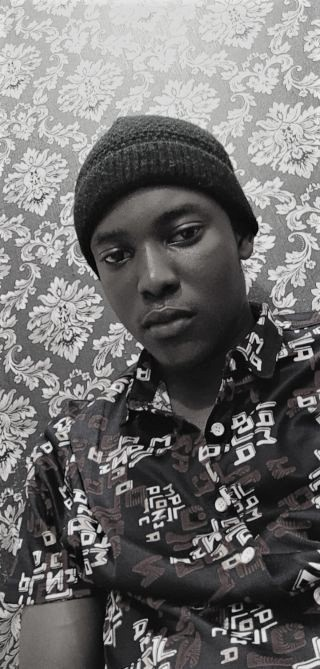
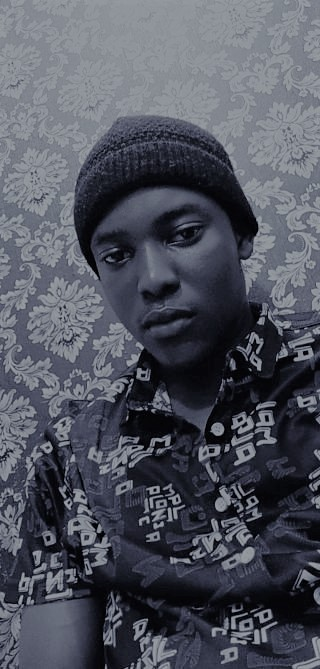
updated

diff --git a/public/output.css b/public/output.css
@@ -659,10 +659,6 @@ video {
   z-index: -1;
 }
 
-.z-\[\]{
-  z-index: ;
-}
-
 .mx-auto{
   margin-left: auto;
   margin-right: auto;
@@ -769,6 +765,22 @@ video {
   height: 100%;
 }
 
+.h-\[\]{
+  height: ;
+}
+
+.h-\[500xp\]{
+  height: 500xp;
+}
+
+.h-\[500px\]{
+  height: 500px;
+}
+
+.h-\[600px\]{
+  height: 600px;
+}
+
 .max-h-\[400px\]{
   max-height: 400px;
 }
@@ -801,16 +813,36 @@ video {
   width: 100%;
 }
 
-.w-\[1005\]{
-  width: 1005;
+.w-\[\]{
+  width: ;
 }
 
-.w-\[100\%\]{
-  width: 100%;
+.w-\[800px\]{
+  width: 800px;
+}
+
+.w-\[400px\]{
+  width: 400px;
+}
+
+.w-\[900px\]{
+  width: 900px;
 }
 
 .max-w-\[400px\]{
   max-width: 400px;
+}
+
+.max-w-\[800px\]{
+  max-width: 800px;
+}
+
+.max-w-\[00px\]{
+  max-width: 00px;
+}
+
+.max-w-\[8000px\]{
+  max-width: 8000px;
 }
 
 .basis-1\/2{
@@ -823,6 +855,18 @@ video {
 
 .basis-3\/5{
   flex-basis: 60%;
+}
+
+.basis-\[\]{
+  flex-basis: ;
+}
+
+.basis-\[20\%\]{
+  flex-basis: 20%;
+}
+
+.basis-\[80\%\]{
+  flex-basis: 80%;
 }
 
 .resize{
@@ -904,6 +948,11 @@ video {
   border-bottom-right-radius: 0.125rem;
 }
 
+.rounded-t-full{
+  border-top-left-radius: 9999px;
+  border-top-right-radius: 9999px;
+}
+
 .bg-\[\#090026\]{
   --tw-bg-opacity: 1;
   background-color: rgb(9 0 38 / var(--tw-bg-opacity));
@@ -946,6 +995,26 @@ video {
 
 .bg-gradient-rainblue{
   background-image: linear-gradient(90deg, #24CBFF 14.53%, #FC59FF 69.36%, #FFBD0C 117.73%);
+}
+
+.object-contain{
+  object-fit: contain;
+}
+
+.object-cover{
+  object-fit: cover;
+}
+
+.object-top{
+  object-position: top;
+}
+
+.object-bottom{
+  object-position: bottom;
+}
+
+.object-right-bottom{
+  object-position: right bottom;
 }
 
 .p-10{
@@ -1126,6 +1195,17 @@ video {
 .outline-none{
   outline: 2px solid transparent;
   outline-offset: 2px;
+}
+
+.saturate-200{
+  --tw-saturate: saturate(2);
+  -webkit-filter: var(--tw-blur) var(--tw-brightness) var(--tw-contrast) var(--tw-grayscale) var(--tw-hue-rotate) var(--tw-invert) var(--tw-saturate) var(--tw-sepia) var(--tw-drop-shadow);
+          filter: var(--tw-blur) var(--tw-brightness) var(--tw-contrast) var(--tw-grayscale) var(--tw-hue-rotate) var(--tw-invert) var(--tw-saturate) var(--tw-sepia) var(--tw-drop-shadow);
+}
+
+.filter{
+  -webkit-filter: var(--tw-blur) var(--tw-brightness) var(--tw-contrast) var(--tw-grayscale) var(--tw-hue-rotate) var(--tw-invert) var(--tw-saturate) var(--tw-sepia) var(--tw-drop-shadow);
+          filter: var(--tw-blur) var(--tw-brightness) var(--tw-contrast) var(--tw-grayscale) var(--tw-hue-rotate) var(--tw-invert) var(--tw-saturate) var(--tw-sepia) var(--tw-drop-shadow);
 }
 
 .transition{
@@ -1332,6 +1412,12 @@ body,
           filter: var(--tw-blur) var(--tw-brightness) var(--tw-contrast) var(--tw-grayscale) var(--tw-hue-rotate) var(--tw-invert) var(--tw-saturate) var(--tw-sepia) var(--tw-drop-shadow);
 }
 
+.hover\:saturate-100:hover{
+  --tw-saturate: saturate(1);
+  -webkit-filter: var(--tw-blur) var(--tw-brightness) var(--tw-contrast) var(--tw-grayscale) var(--tw-hue-rotate) var(--tw-invert) var(--tw-saturate) var(--tw-sepia) var(--tw-drop-shadow);
+          filter: var(--tw-blur) var(--tw-brightness) var(--tw-contrast) var(--tw-grayscale) var(--tw-hue-rotate) var(--tw-invert) var(--tw-saturate) var(--tw-sepia) var(--tw-drop-shadow);
+}
+
 .hover\:filter:hover{
   -webkit-filter: var(--tw-blur) var(--tw-brightness) var(--tw-contrast) var(--tw-grayscale) var(--tw-hue-rotate) var(--tw-invert) var(--tw-saturate) var(--tw-sepia) var(--tw-drop-shadow);
           filter: var(--tw-blur) var(--tw-brightness) var(--tw-contrast) var(--tw-grayscale) var(--tw-hue-rotate) var(--tw-invert) var(--tw-saturate) var(--tw-sepia) var(--tw-drop-shadow);
@@ -1397,6 +1483,14 @@ body,
 
   .md\:max-w-\[600px\]{
     max-width: 600px;
+  }
+
+  .md\:max-w-\[400px\]{
+    max-width: 400px;
+  }
+
+  .md\:max-w-\[1000px\]{
+    max-width: 1000px;
   }
 
   .md\:flex-col{

diff --git a/src/scenes/Contact.jsx b/src/scenes/Contact.jsx
@@ -2,6 +2,7 @@ import LineGradient from "../components/LineGradient";
 import { motion } from "framer-motion";
 import {useForm} from 'react-hook-form';
 import { useState } from "react";
+import SocialMediaIcons from "../components/SocialMediaIcons";
 
 const Contact = () => {
     const {
@@ -39,16 +40,16 @@ const Contact = () => {
             {/* FORM & IMAGE SECTION */}
             <div className="md:flex md:justify-between gap-16 mt-5">
                 <motion.div
-                   className="basis-1/2 flex justify-center"
+                   className="basis-[20%] flex justify-center"
                    initial="hidden" whileInView="visible" viewport={{ once: true, amount: 0.5}} transition={{ duration: 0.5}} variants={{
                     hidden: { opacity: 0, y: 50},
                     visible: { opacity: 1, y: 0}
                    }}>
-                        <img src="../assets/contact-image.jpeg" alt="contact" />
+                        <SocialMediaIcons />
                 </motion.div>
 
                 <motion.div
-                   className="basis-1/2 mt-10 md:mt-0"
+                   className="basis-[80%] mt-10 md:mt-0"
                    initial="hidden" whileInView="visible" viewport={{ once: true, amount: 0.5}} transition={{ delay: 0.2,  duration: 0.5}} variants={{
                     hidden: { opacity: 0, y: 50},
                     visible: { opacity: 1, y: 0}

diff --git a/src/scenes/Landing.jsx b/src/scenes/Landing.jsx
@@ -12,11 +12,11 @@ const Landing = ({setSelectedPage}) => {
             {/* IMAGE SECTION */}
           <div className="md:order-2 flex justify-center basis-3/5 z-10 mt-16 md:mt-32">
             {aboveLarge ? (
-                <div className="relative z-0 ml-20 before:absolute before:-top-20 before:-left-20 before:rounded-t-[400px] before:w-full before:max-w-[400px] before:h-full before:border-2 before:border-blue before:z-[-1] md:before:max-w-[600px]">
-                    <img src="assets/profile-image.png" alt="profile" className=" hover:filter hover:saturate-200 transition duration-500 z-10 w-full max-w-[400px] md:max-w-[600px]"/>
+                <div className="">
+                    <img src="assets/profile-imagee.jpg" alt="profile" className=" filter saturate-200 transition duration-500 z-10 rounded-t-full w-[400px] h-[600px] object-cover object-top"/>
                 </div>
             ) : (
-                <img src="assets/profile-image.png" alt="profile" className="w-full z-10 max-w-[400px] md:max-w-[600px]"/>
+                <img src="assets/profile-imagee.jpg" alt="profile" className="w-full  rounded-t-full h-[600px] object-cover object-top filter saturate-200"/>
             )}
             </div> 
             

diff --git a/src/scenes/Footer.jsx b/src/scenes/Footer.jsx
@@ -4,7 +4,7 @@ const Footer = () => {
     return(
     <footer className=" bg-[#120026] py-8">
         <div className=" w-5/6 mx-auto md:flex md:flex-col justify-evenly items-center">
-            <SocialMediaIcons />
+            {/* <SocialMediaIcons /> */}
             <div className="flex justify-center text-center">
                 <p className=" font-playfair text-xl text-yellow">Copyright ©2023. All Rights reserved.</p>
             </div>

diff --git a/src/scenes/Navbar.jsx b/src/scenes/Navbar.jsx
@@ -60,7 +60,7 @@ exit={{
     transition: {
         duration: 0.8,
         ease: [0, 0.71, 0.2, 1.01]
-    },
+    }
 }}
 >
 
